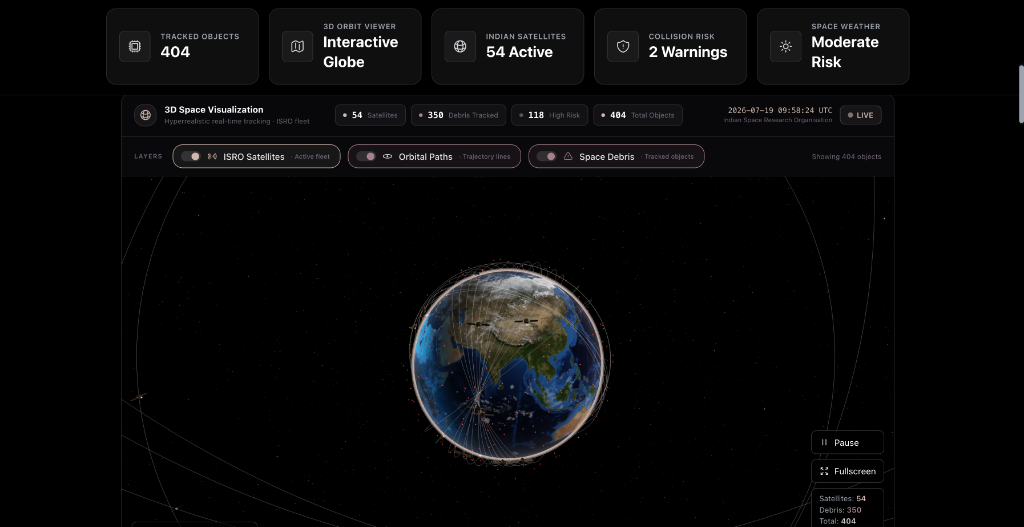
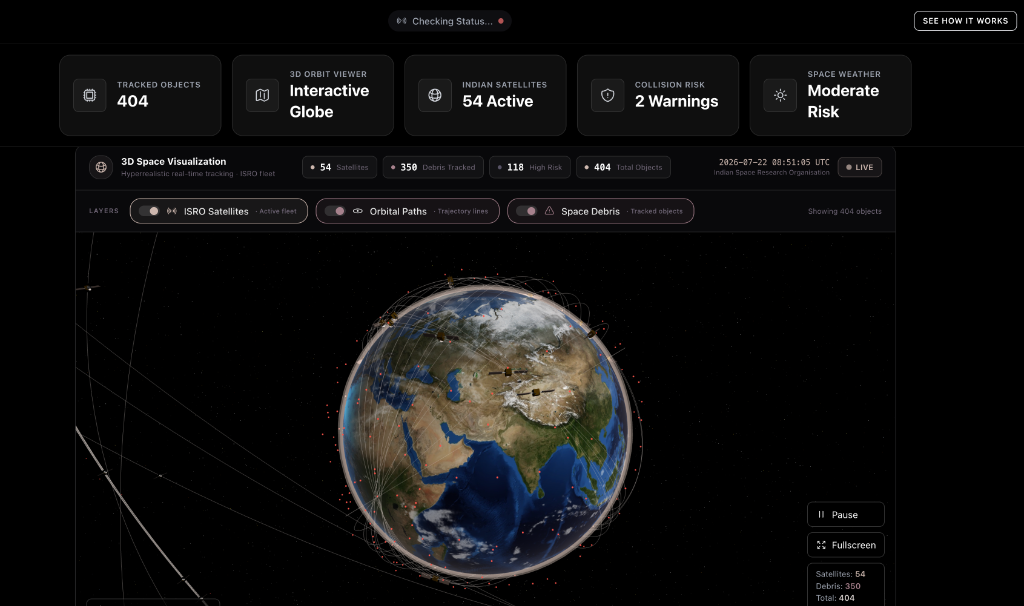
style: Replace SkySentinel project image with updated 3D space tracking dashboard screenshot

diff --git a/src/app/page.tsx b/src/app/page.tsx
@@ -34,7 +34,7 @@ const projects: Project[] = [
   {
     title: "SkySentinel",
     description: "Space situational awareness platform monitoring satellite risks in Earth's orbit, integrating live TLE data with interactive 3D visualisation.",
-    image: "/images/projects/skysentinel.png?v=3",
+    image: "/images/projects/skysentinel.png?v=4",
     link: "https://github.com/SuyashSingh667/SkySentinel",
   },
   {